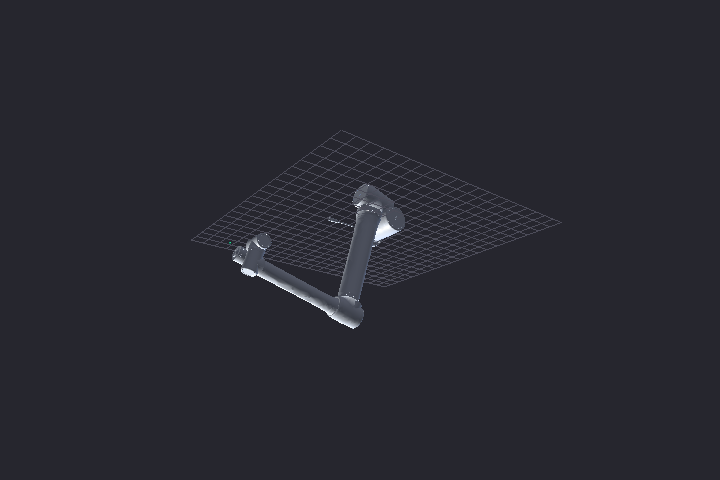
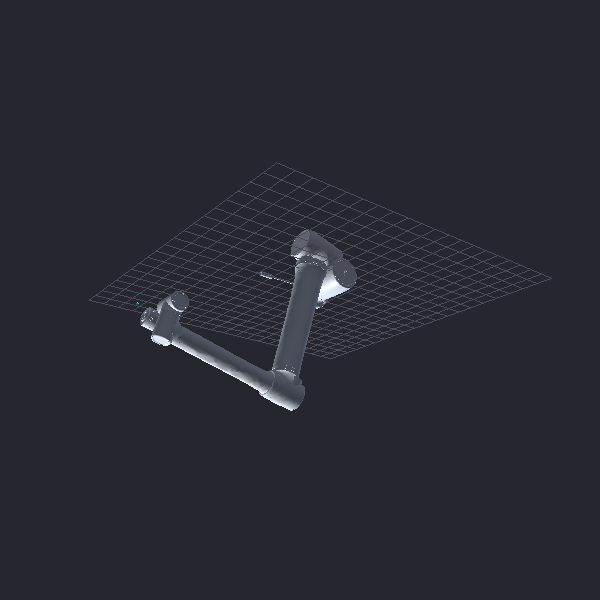
test(vendor/jaka): 回归测试 + 摆动姿态预览，把 JAKA 做成标杆
「先把 jaka 做好」——把 JAKA 从「能生成」推到「有测试守住 + 能证明会动」。

tests/test_vendor_jaka.py（7 用例，CI 可跑，无需 OCP/STEP）：
- 文件完整性：_real.urdf 存在，引用的 meshes_real/*.stl 存在且非空
- 结构：base_link 首位、含 tool0/tcp、6 旋转 + 1 固定、每旋转轴有 axis+limit
  且下界<上界
- 连杆链连通：base→link_1..5→tool0 父子关系自洽
- 轻量正运动学：累乘 Translate×Rot 算零位末端位置（有限且可达>5cm），
  旋转 joint_2/3/5 后末端位置必须改变 —— 证明关节真的在工作
- 生成工具纯函数：_match_step 守住 zu3⊂zu30、kr6⊂kr60 前缀边界不误匹配
- _coord_trsf 守住「均匀缩放 0.001 + 右手系」（防反射/压扁，符号由
  验证过的渲染结果决定，不硬编码）
- guarded：build zu3 到临时目录冒烟（OCP+STEP 不在 CI，故 skip）

docs/preview 新增 7 张摆动帧 vendor_jaka_*_real_pose.png（肩/肘/腕各转一
点），重新生成 7 张零位帧。视觉证据：zu3 摆动帧完整展开成工作 JAKA cobot，
绿色 tcp 可见，连杆链运动正确。zu18 有 9 个 visual（多出的零件并入 tool0）。

全套：pytest tests/ → 111 passed。

Changed region(s): [[0.15, 0.2812, 0.9, 0.6875]]

diff --git a/tests/test_vendor_jaka.py b/tests/test_vendor_jaka.py
@@ -1,0 +1,207 @@
+#!/usr/bin/env python3
+"""JAKA 真机 CAD → URDF 的回归测试（``models/jaka/<m>/<m>_real.urdf``）。
+
+这批测试守两件事：
+1. **已提交产物不被悄悄破坏**（CI 可跑，不需要 OCP/STEP）：每个型号的
+   ``_real.urdf`` 结构正确、引用的 mesh 文件存在且非空、连杆链 base→tool0→tcp
+   连通、用轻量正运动学证明「零位可达且摆动确实改变末端位姿」。
+2. **生成工具的纯函数不被改坏**：``_match_step`` 的前缀边界（zu3⊂zu30、kr6⊂kr60
+   不能误匹配）、``_coord_trsf`` 的 Y-up→Z-up 映射。
+
+生成链路本身（需要 OCP + 厂商 STEP，CI 没有）用带 skip 的冒烟测试守住——
+本地有 STEP 时会真正重建 zu3 到临时目录并校验。
+"""
+
+import importlib.util
+import shutil
+import sys
+import xml.etree.ElementTree as ET
+from pathlib import Path
+
+import numpy as np
+import pytest
+
+ROOT = Path(__file__).resolve().parent.parent
+if str(ROOT) not in sys.path:
+    sys.path.insert(0, str(ROOT))
+
+from tools import build_vendor_urdf as bv  # noqa: E402
+
+JAKA = ROOT / "models" / "jaka"
+MODELS = ["zu3", "zu5", "zu7", "zu12", "zu18", "zu20", "zu30"]
+
+_HAS_OCP = importlib.util.find_spec("OCP") is not None
+
+
+# --------------------------------------------------------------------------- #
+# 轻量正运动学（仅用于连通性 / 摆动冒烟，不依赖渲染引擎）
+# --------------------------------------------------------------------------- #
+def _translate(x, y, z):
+    T = np.eye(4)
+    T[:3, 3] = (x, y, z)
+    return T
+
+
+def _rot(axis, theta):
+    ax = np.asarray(axis, dtype=float)
+    ax = ax / np.linalg.norm(ax)
+    x, y, z = ax
+    c, s = np.cos(theta), np.sin(theta)
+    # Rodrigues
+    R = np.array([
+        [c + x * x * (1 - c), x * y * (1 - c) - z * s, x * z * (1 - c) + y * s],
+        [y * x * (1 - c) + z * s, c + y * y * (1 - c), y * z * (1 - c) - x * s],
+        [z * x * (1 - c) - y * s, z * y * (1 - c) + x * s, c + z * z * (1 - c)],
+    ])
+    T = np.eye(4)
+    T[:3, :3] = R
+    return T
+
+
+def _load(m):
+    return ET.parse(JAKA / m / f"{m}_real.urdf").getroot()
+
+
+# --------------------------------------------------------------------------- #
+# 已提交产物
+# --------------------------------------------------------------------------- #
+def test_files_present():
+    for m in MODELS:
+        urdf = JAKA / m / f"{m}_real.urdf"
+        assert urdf.exists(), f"{m}: 缺少 {urdf.name}"
+        root = _load(m)
+        for link in root.findall("link"):
+            for mesh in link.iter("mesh"):
+                fn = mesh.get("filename")
+                p = JAKA / m / fn
+                assert p.exists(), f"{m}: 引用了不存在的网格 {fn}"
+                assert p.stat().st_size > 100, f"{m}: 网格为空 {fn}"
+
+
+def test_structure_each_model():
+    for m in MODELS:
+        root = _load(m)
+        links = [l.get("name") for l in root.findall("link")]
+        assert links[0] == "base_link", f"{m}: 首连杆应为 base_link"
+        assert "tool0" in links and "tcp" in links, f"{m}: 缺 tool0/tcp"
+        rev = [j for j in root.findall("joint") if j.get("type") != "fixed"]
+        assert len(rev) == 6, f"{m}: 应有 6 个旋转关节，实际 {len(rev)}"
+        fixed = [j for j in root.findall("joint") if j.get("type") == "fixed"]
+        assert any(j.find("child").get("link") == "tcp" for j in fixed), \
+            f"{m}: 没有把 tcp 用固定关节挂上"
+        for j in rev:
+            assert j.find("axis") is not None, f"{m}/{j.get('name')}: 缺 axis"
+            assert j.find("limit") is not None, f"{m}/{j.get('name')}: 缺 limit"
+            lim = j.find("limit")
+            lo, hi = float(lim.get("lower")), float(lim.get("upper"))
+            assert lo < hi, f"{m}/{j.get('name')}: limit 下界>=上界"
+
+
+def test_chain_connected():
+    expect = ["base_link", "link_1", "link_2", "link_3", "link_4", "link_5", "tool0"]
+    for m in MODELS:
+        root = _load(m)
+        parent_of = {}
+        for j in root.findall("joint"):
+            p = j.find("parent").get("link")
+            c = j.find("child").get("link")
+            parent_of[c] = p
+        seq, node = [], "tool0"
+        while node in parent_of:
+            seq.append(node)
+            node = parent_of[node]
+        seq.append(node)
+        seq.reverse()
+        assert seq == expect, f"{m}: 连杆链应为 {expect}，实际 {seq}"
+
+
+def test_fk_articulation():
+    """轻量 FK：零位可达且有限；转几个关节后末端位置必须改变。"""
+    chain = ["base_link", "link_1", "link_2", "link_3", "link_4", "link_5", "tool0"]
+    for m in MODELS:
+        root = _load(m)
+        joints = {j.get("name"): j for j in root.findall("joint") if j.get("type") != "fixed"}
+        j_by_child = {j.find("child").get("link"): j for j in joints.values()}
+
+        def child_tf(j, theta):
+            o = j.find("origin").get("xyz").split()
+            ox, oy, oz = map(float, o)
+            ax = list(map(float, j.find("axis").get("xyz").split()))
+            return _translate(ox, oy, oz) @ _rot(ax, theta)
+
+        def fk(thetas):
+            T = np.eye(4)
+            for link in chain[1:]:
+                T = T @ child_tf(j_by_child[link], thetas.get(j_by_child[link].get("name"), 0.0))
+            return T[:3, 3]
+
+        home = fk({})
+        assert np.all(np.isfinite(home)), f"{m}: 零位末端坐标非有限"
+        assert np.linalg.norm(home) > 0.05, f"{m}: 零位到达距离过小（{home}）"
+        posed = fk({"joint_2": 0.7, "joint_3": -0.7, "joint_5": 0.6})
+        assert np.linalg.norm(posed - home) > 1e-3, f"{m}: 摆动未改变末端位姿"
+
+
+# --------------------------------------------------------------------------- #
+# 生成工具纯函数
+# --------------------------------------------------------------------------- #
+def test_match_step_prefix_boundary():
+    # zu3 不能误匹配 Zu30；kr6 不能误匹配 kr60
+    assert bv._match_step("jaka", "zu3", "jakazu3v2020231016") is True
+    assert bv._match_step("jaka", "zu3", "jakazu30v0120241220") is False
+    assert bv._match_step("jaka", "zu30", "jakazu30v0120241220") is True
+    assert bv._match_step("kuka", "kr6", "kukakr6r900...") is True
+    assert bv._match_step("kuka", "kr6", "kukakr60r2700...") is False
+    assert bv._match_step("kuka", "kr60", "kukakr60r2700...") is True
+
+
+@pytest.mark.skipif(not _HAS_OCP, reason="需要 OCP（cadquery-ocp）")
+def test_coord_trsf_yup_is_proper_uniform():
+    """y_up_mm 变换必须是「均匀缩放 0.001 + 保持右手系」的刚体缩放。
+
+    锁住不变量比锁死某个轴符号更有意义：一旦变换变成反射（手性翻转）或
+    非均匀缩放，真机网格会被镜像/压扁，而这类 bug 用视觉很难第一时间发现。
+    具体的轴系符号由已验证的渲染结果决定，不在本测试内硬编码。
+    """
+    trsf = bv._coord_trsf("y_up_mm")
+    from OCP.gp import gp_Pnt
+
+    def P(x, y, z):
+        p = gp_Pnt(x, y, z).Transformed(trsf)
+        return np.array([p.X(), p.Y(), p.Z()])
+
+    a = P(0, 0, 0)
+    b = P(1, 0, 0)
+    c = P(0, 1, 0)
+    d = P(0, 0, 1)
+    # 均匀缩放 0.001（防止非均匀缩放压扁网格）
+    assert abs(np.linalg.norm(b - a) - 0.001) < 1e-9
+    assert abs(np.linalg.norm(c - a) - 0.001) < 1e-9
+    assert abs(np.linalg.norm(d - a) - 0.001) < 1e-9
+    # 保持右手系（有向体积同号，防止反射镜像）
+    vol_src = np.dot(np.cross([1, 0, 0], [0, 1, 0]), [0, 0, 1])  # = +1
+    vol_dst = np.dot(np.cross(b - a, c - a), d - a)
+    assert vol_src * vol_dst > 0
+
+
+@pytest.mark.skipif(not _HAS_OCP, reason="需要 OCP + JAKA STEP")
+def test_build_zu3_to_tmp(tmp_path, monkeypatch):
+    step_src = next((ROOT / "assets" / "vendor" / "jaka" / "step").glob("JAKA_Zu_3*.STEP"))
+    if not step_src:
+        pytest.skip("本地没有 JAKA STEP")
+    # 把程序化 URDF 与 STEP 复制到临时目录，避免触碰已提交产物
+    md = tmp_path / "jaka" / "zu3"
+    md.mkdir(parents=True)
+    shutil.copy(JAKA / "zu3" / "zu3.urdf", md / "zu3.urdf")
+    vs = tmp_path / "vendor" / "jaka" / "step"
+    vs.mkdir(parents=True)
+    shutil.copy(step_src, vs / step_src.name)
+    monkeypatch.setattr(bv, "MODELS_DIR", tmp_path)
+    monkeypatch.setattr(bv, "VENDOR_STEP", tmp_path / "vendor")
+
+    rc = bv.build_model("jaka", "zu3", 0.02, 0.5)
+    assert rc == 0
+    out_urdf = tmp_path / "jaka" / "zu3" / "zu3_real.urdf"
+    out_mesh = tmp_path / "jaka" / "zu3" / "meshes_real" / "base_link.stl"
+    assert out_urdf.exists() and out_mesh.exists()
+    assert out_mesh.stat().st_size > 100
